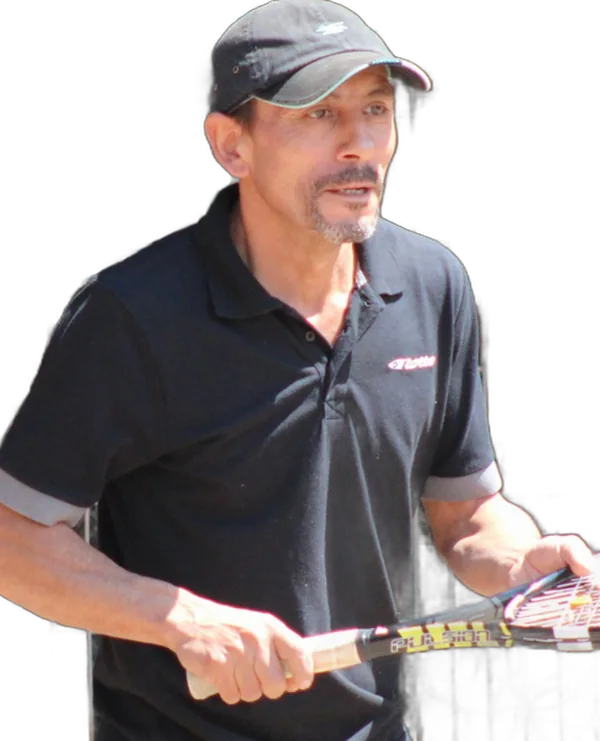
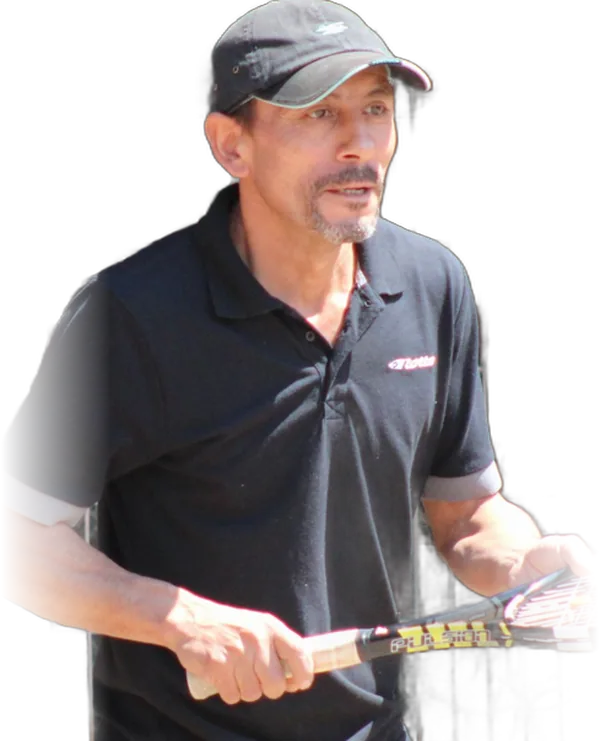
Bustos con bordes difuminados (Mila sin cortes bruscos) y fotos en círculo con anillo en ranking y leyendas
Claude-Session: https://claude.ai/code/session_016YYftfmrkoTD1yoD5uXtSq

Changed region(s): [[0.0, 0.3725, 0.18, 1.0], [0.84, 0.6829, 1.0, 0.9001]]

diff --git a/index.html b/index.html
@@ -281,9 +281,12 @@ p{margin:0}
 /* fotos */
 .av{display:inline-grid;place-items:center;object-fit:cover;border-radius:50%;flex:none;background:var(--grad-cool);color:#fff;font-family:var(--f-display);font-weight:800;vertical-align:middle}
 .av.sm{width:40px;height:40px;font-size:13px}
+.av.ring{width:54px;height:54px;padding:3px;background:var(--grad);font-size:15px;box-shadow:0 6px 18px rgba(255,46,147,.25);transition:transform .3s}
+span.av.ring{background:var(--grad-cool)}
+tr:hover .av.ring,.lg:hover .av.ring{transform:scale(1.08)}
 .av.md{width:58px;height:58px;font-size:17px;box-shadow:0 0 0 2px rgba(255,255,255,.15)}
 .av.xl{display:grid;width:118px;height:118px;font-size:36px;margin:0 auto 16px;box-shadow:0 0 0 4px rgba(255,255,255,.25),0 18px 40px rgba(0,0,0,.35)}
-.rtable td.n .av{float:left;margin-right:14px;margin-top:2px}
+.rtable td.n .av{float:left;margin-right:16px;margin-top:-4px}
 .player .pphoto{position:absolute;inset:0;width:100%;height:100%;object-fit:cover;transition:transform .8s}
 .player:hover .pphoto{transform:scale(1.07)}
 .player .tint{position:absolute;inset:0;background:linear-gradient(180deg,rgba(123,60,255,.25),transparent 35%,transparent 55%,rgba(255,46,147,.35) 78%,rgba(12,8,23,.92))}
@@ -921,7 +924,7 @@ let io=null;
   $("#rank").innerHTML = activos.map(([id,p],i)=>`
     <tr data-id="${id}" tabindex="0" aria-label="Ver ficha de ${p.nombre}">
       <td class="p">${i+1}</td>
-      <td class="n">${fmini()}${p.nombre}<small>Mejor ranking: ${p.mejor}°</small></td>
+      <td class="n">${avatar(id,"ring")}${fmini()}${p.nombre}<small>Mejor ranking: ${p.mejor}°</small></td>
       <td class="pt num">${fmt(p.pts)}</td>
       <td style="width:28%"><div class="bar"><i data-w="${Math.max(1.5,p.pts/max*100)}"></i></div></td>
       <td class="c num">${p.tit}</td><td class="c num">${p.v}-${p.d}</td><td class="c num">${pct(p)}%</td>
@@ -955,7 +958,7 @@ let io=null;
   $("#legendStar").style.cursor="pointer"; $("#legendStar").onclick=()=>openPlayer(sid);
   $("#legends").innerHTML = leyendas.slice(1).map(([id,p],i)=>`
     <button class="lg rv ${["l","u","r"][i%3]}" style="transition-delay:${(i%3)*100}ms" data-id="${id}">
-      <span class="lg-who">${avatar(id,"sm")}<span><b>${fmini()}${p.nombre}</b><small>${p.v}-${p.d} · mejor ranking ${p.mejor}°</small></span></span><span class="st ${p.estado}">${stLabel(p.estado)}</span>
+      <span class="lg-who">${avatar(id,"ring")}<span><b>${fmini()}${p.nombre}</b><small>${p.v}-${p.d} · mejor ranking ${p.mejor}°</small></span></span><span class="st ${p.estado}">${stLabel(p.estado)}</span>
     </button>`).join("");
   document.querySelectorAll(".lg").forEach(b=>b.onclick=()=>openPlayer(b.dataset.id));
 })();
